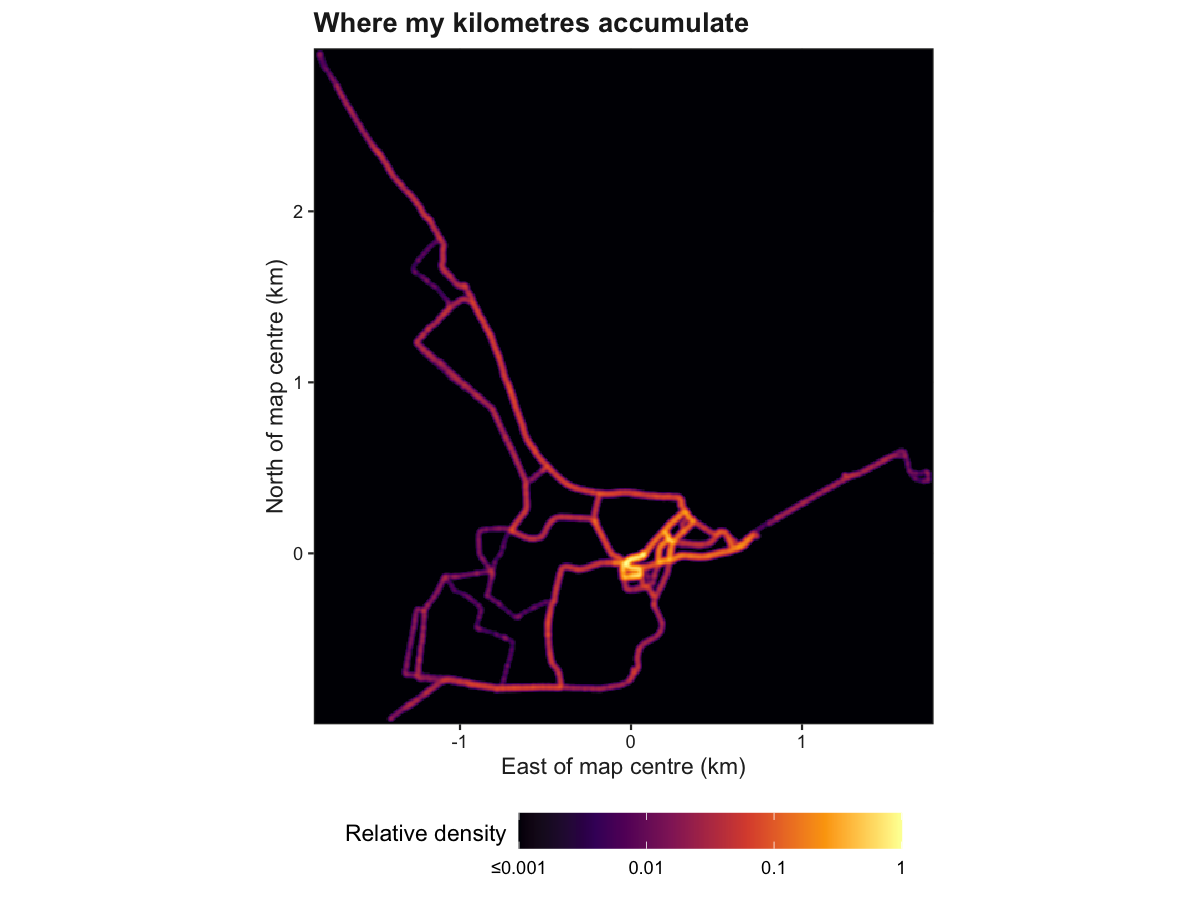
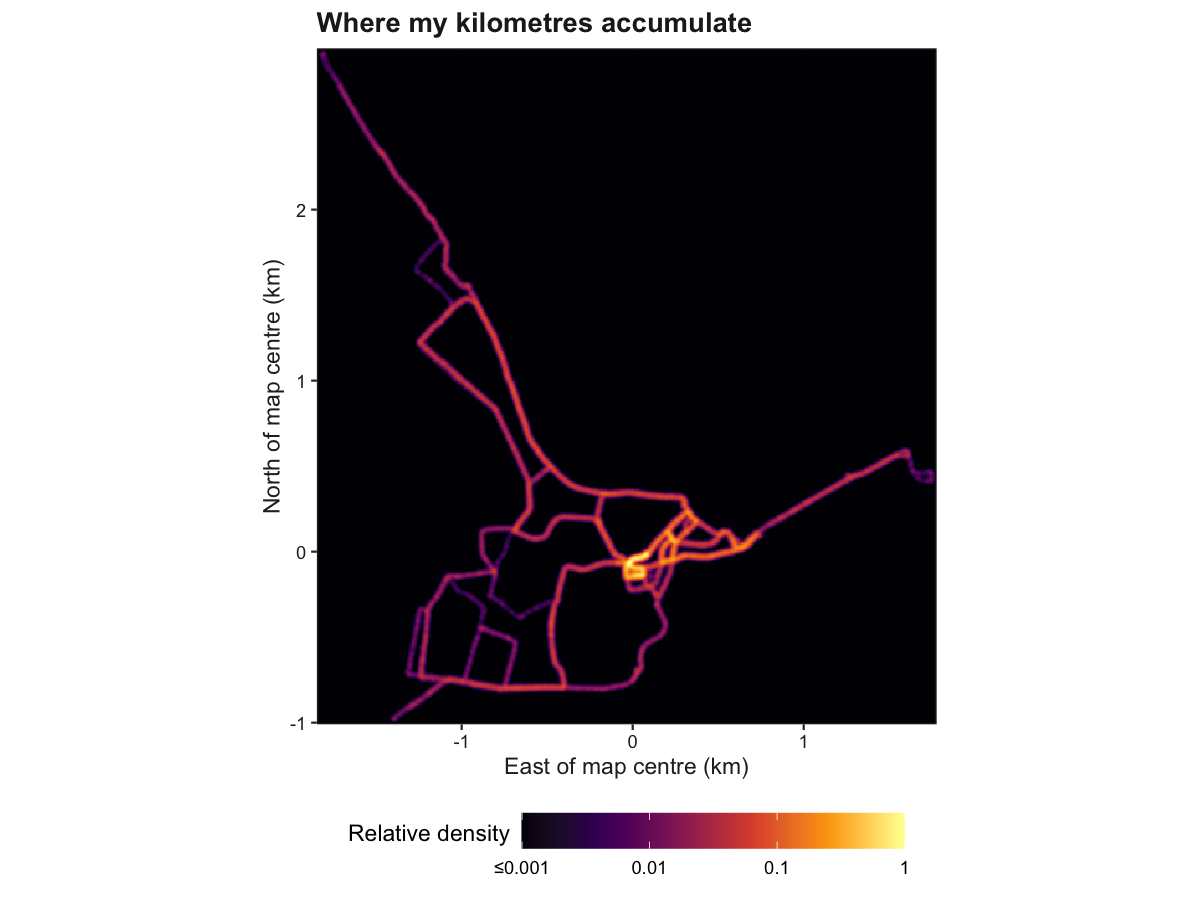
Simplify running map chapter

diff --git a/_posts/0001-01-09-running-mapping-playground.md b/_posts/0001-01-09-running-mapping-playground.md
@@ -33,11 +33,12 @@ go through the training itself to see the results.
 So what do I do in the meantime? My all-time favourite procrastination
 exercise: mapping data. Not the first I’m going down this road.
 
-I really love making maps. A few choices about colour, scale, and what
-to count can make the same routes tell quite different stories.
+I really love making maps. Finding the right colour palette, the right
+scale and location for labels, or the right data to map your idea.
 
-Here are the three views we will make: a density plot of GPS positions,
-towers of repeat visits, and a run placed in its landscape.
+Here are the three views I did for these running data: a density plot of
+GPS positions, towers of repeat visits, and a run placed in its
+landscape using satellite date.
 
 <figure aria-label="Three views of my running routes">
 
@@ -71,20 +72,27 @@ follow below.
 
 </figure>
 
+The code examples are, unfortunately, on the long side but good visuals
+deserve that much. I never knew how to accept pre-made figure templates.
+I always have to fine tune everything by hand. So be it.
+
 # Getting the coordinates
 
 To make maps, one needs spatial data. The coordinates live in
 `activity_records`, inside `garmin_activities.db`. We keep running
-activities from **29 June 2026** onwards. Warm-ups and cool-downs belong
-here too: they are places I ran.
+activities from **29 June 2026** onwards. Warm-ups and cool-downs are
+included in this chapter: they are places I ran.
 
-One run comes from a trip to South Africa to give an R workshop. A map
-covering both countries would shrink the routes to dots, so that run
-will get its own map at the end.
+One of the runs of this period comes from a trip to South Africa to give
+an R workshop. A map covering South Africa and Germany would shrink the
+routes to dots, so that run will get its own map at the end.
 
-`position_long` and `position_lat` locate each point in decimal degrees.
-`activity_id` tells us which run it belongs to; `record` and `timestamp`
-let us follow the points in order.
+Here are the data we’ll use:
+
+- `position_long` and `position_lat` locate each point in decimal
+  degrees.
+- `activity_id` tells us which run it belongs to, and `record` gives the
+  order of points within each run.
 
 ``` r
 setwd(
@@ -118,7 +126,7 @@ running_activities <- tbl(con, "activities") |>
 gps <- tbl(con, "activity_records") |>
     semi_join(running_activities, by = "activity_id") |>
     select(
-        activity_id, record, timestamp,
+        activity_id, record,
         position_long, position_lat
     ) |>
     collect()
@@ -126,39 +134,28 @@ gps <- tbl(con, "activity_records") |>
 dbDisconnect(con)
 ```
 
-> As opposed to previous chapters, I immediately disconnect from the
-> database because I already know that I won’t need to extract new data
-> after this point. I disconnect now, so I’m certain I won’t forgt
-> later.
+After `collect()` brings the selected records into R, I close the
+read-only database connection. The maps can now be made from the data
+already in memory.
 
-The checks below flag missing or impossible coordinates, plus the
-placeholder `(0, 0)`. We keep those rows for now: a missing position
-should break a route, rather than force connections between the points
-on either side. The two run subsets are `de_gps` for Germany and
-`sa_gps` for South Africa.
+Two records have missing coordinates at the start of an activity. I drop
+rows missing either coordinate, then split the runs into Germany
+(`de_gps`) and South Africa (`sa_gps`).
 
 ``` r
 gps <- gps |>
-    mutate(
-        timestamp = as.POSIXct(timestamp, tz = "UTC"),
-        valid_position =
-            is.finite(position_long) &
-            is.finite(position_lat) &
-            between(position_long, -180, 180) &
-            between(position_lat, -90, 90) &
-            !(position_long == 0 & position_lat == 0)
-    ) |>
+    tidyr::drop_na(position_long, position_lat) |>
     arrange(activity_id, record)
 
-# Split by activity, retaining the complete South Africa run for later.
+# Keep the South African run separate for its own map.
 sa_gps <- gps |> filter(activity_id == south_africa_activity_id)
 de_gps <- gps |> filter(activity_id != south_africa_activity_id)
 ```
 
 # Choosing the neighbourhood
 
-The main maps cover my routes around Greifswald, Germany, well within
-ten kilometres of the median recorded position.
+The main maps cover my routes around Greifswald, Germany. I use the
+median recorded position as the map centre.
 
 Longitude and latitude need to be converted into distances and projected
 onto 30-metre squares. A local **map projection** converts those angles
@@ -173,10 +170,9 @@ applying `floor()` then assigns each point to a grid square.
 
 ``` r
 map_centre <- c(
-    lon = median(de_gps$position_long[de_gps$valid_position]),
-    lat = median(de_gps$position_lat[de_gps$valid_position])
+    lon = median(de_gps$position_long),
+    lat = median(de_gps$position_lat)
 )
-map_radius_m <- 10000
 cell_size_m <- 30
 bandwidth_m <- 10
 
@@ -185,23 +181,19 @@ local_crs <- sprintf(
     map_centre[["lon"]], map_centre[["lat"]]
 )
 xy <- de_gps |>
-    filter(valid_position) |>
     st_as_sf(coords = c("position_long", "position_lat"), crs = 4326) |>
     st_transform(local_crs) |>
     st_coordinates()
 
-# Keep invalid and out-of-area records as breaks in the visit sequence.
-de_gps$x_m <- de_gps$y_m <- NA_real_
-de_gps$x_m[de_gps$valid_position] <- xy[, "X"]
-de_gps$y_m[de_gps$valid_position] <- xy[, "Y"]
+# Add the projected coordinates so we can work in metres.
 de_gps <- de_gps |>
     mutate(
-        in_map = coalesce(sqrt(x_m^2 + y_m^2) <= map_radius_m, FALSE),
-        grid_x = if_else(in_map, as.integer(floor(x_m / cell_size_m)), NA_integer_),
-        grid_y = if_else(in_map, as.integer(floor(y_m / cell_size_m)), NA_integer_)
+        x_m = xy[, "X"],
+        y_m = xy[, "Y"],
+        grid_x = as.integer(floor(x_m / cell_size_m)),
+        grid_y = as.integer(floor(y_m / cell_size_m))
     )
 map_points <- de_gps |>
-    filter(in_map) |>
     mutate(x_km = x_m / 1000, y_km = y_m / 1000)
 
 # Leave a margin around the recorded routes.
@@ -211,9 +203,7 @@ map_theme <- theme_running() +
     theme(legend.title = element_text(), panel.grid.minor = element_blank())
 ```
 
-This view contains 12647 GPS records from 19 runs. It leaves out 0 valid
-records outside the chosen area and 2 records without usable
-coordinates.
+This view contains 16206 GPS records from 24 runs.
 
 # Where I spent the most time
 
@@ -224,9 +214,11 @@ Imagine placing a small glow around each GPS point. Where many glows
 overlap, the map becomes brighter. The **bandwidth** controls how widely
 each point spreads: ten metres keeps these routes sharply defined.
 
-The inferno palette runs from dark to yellow. A logarithmic colour scale
-reveals routes I rarely used alongside the brightest spot: each legend
-step is a tenfold increase. The maximum density is scaled to one.
+The inferno palette runs from dark to bright yellow. So I choose to map
+my data density to this scheme, scaling data from 0 (black; never been
+there) to 1 (yellow; highest density). However, I first log-transformed
+the data to ensure the road I used only once or twice do net get lost in
+the background.
 
 ``` r
 density_floor <- 1e-3
@@ -271,8 +263,8 @@ of sweat lost in each location 🥵
 
 Now, I want to plot something slightly different: how many times I used
 each segment. So I want to exclude the pace element – if I walk on that
-section, I’ll spend more time there, and it will become brighter on the
-plot above.
+section, I’ll spend more time there, automatically increasing the
+brightness on the plot above.
 
 ## Counting everytime I entered a location
 
@@ -281,29 +273,21 @@ resting in one place.
 
 I divide the whole area into 30-by-30-metre squares and count entries.
 The sequence A, A, B, B, A gives two visits to cell A and one to B.
-Staying inside a cell does not keep adding visits, and every new
-activity starts its own sequence.
+Staying inside a cell (A -\> A) does not keep adding visits, and every
+new activity starts its own sequence.
 
-A missing position, a trip outside the map, or a recording gap longer
-than 60 seconds also starts a new observed visit. Since we cannot
-reconstruct an unrecorded path: cells crossed between GPS samples are
-not filled in. This can happen when I stop my watch in one location and
-restart at a different place.
+The largest entry counts cluster near the origin, around that hill. This
+time, the numbers describe how many times I returned to those squares,
+rather than how many GPS points accumulated there.
 
 ``` r
-max_gap_seconds <- 60
-
 visits <-
     de_gps |>
         group_by(activity_id) |>
         arrange(record, .by_group = TRUE) |>
         mutate(
-            gap_seconds = as.numeric(difftime(timestamp, lag(timestamp), units = "secs")),
-            new_visit = in_map & (
-                row_number() == 1L |
-                coalesce(grid_x != lag(grid_x) | grid_y != lag(grid_y), TRUE) |
-                is.na(gap_seconds) | gap_seconds > max_gap_seconds | gap_seconds < 0
-            )
+            new_visit = row_number() == 1L |
+                grid_x != lag(grid_x) | grid_y != lag(grid_y)
         ) |>
         ungroup() |>
         filter(new_visit)
@@ -314,30 +298,26 @@ cell_counts <- visits |>
 cell_counts |> arrange(desc(entries))
 ```
 
-    ## # A tibble: 822 × 3
+    ## # A tibble: 848 × 3
     ##    grid_x grid_y entries
     ##     <int>  <int>   <int>
-    ##  1     -1     -2      89
-    ##  2      1     -1      85
-    ##  3      0     -2      66
-    ##  4      0     -1      60
-    ##  5      2     -1      57
-    ##  6     -2     -3      56
-    ##  7      0     -3      55
-    ##  8     -1     -3      54
-    ##  9     -2     -2      50
-    ## 10      1     -4      47
-    ## # ℹ 812 more rows
+    ##  1     -1     -3     121
+    ##  2      0     -2     116
+    ##  3      1     -2     113
+    ##  4     -1     -2     112
+    ##  5     -2     -3      74
+    ##  6      0     -4      73
+    ##  7      1     -4      71
+    ##  8      2     -1      71
+    ##  9     -2     -4      60
+    ## 10      1     -5      52
+    ## # ℹ 838 more rows
 
-The largest entry counts cluster near the origin, around the hill. This
-time, the numbers describe returns to those squares, rather than how
-many GPS points accumulated there. Choosing the median position as the
-centre does not guarantee that the busiest cells will be nearby.
-
-The beginning and end of a “hill loop” are the same, and based on the
-algorithms, these will corresond to two entries. So I’d estimate that I
-must have ran up that hill about 40 times since the beginning of that
-program across 4-5 sessions.
+My most visited segment tallies ~120 visits. This corresponds to the
+beginning and end of the “hill loop” I keep doing over and over. So Each
+loop brings two entries. So I can roughly estimate that I have ran up
+that hill about ~60 times since the beginning of that program across 5-6
+sessions.
 
 ## Gridding the data
 
@@ -420,15 +400,15 @@ the center hosting the highest density and then decreasing along the
 main roads.
 
 PS: I can’t explore in too many directions because I live on a
-peninsula. Lots of Baltic Sea around me.
+peninsula. Lots of Baltic Sea in the top right triangle.
 
 # A detour to South Africa
 
 One of the runs was done in South Africa and does not really belong to
 his program. It was a chance to shake off some of the travelling aches
-that one gets staying 11+ hours on a plane. I would have liked to repeat
-the bush run experience a few more times, but reports of fresh leopard
-prints on the roads we had used cooled our enthusiasm.
+that one gets staying 11+ hours on a plane. And while I would have liked
+to repeat such a bush run experience a few more times, daily reports of
+fresh leopard prints on the roads we had used cooled our enthusiasm.
 
 So the experience was not repeated 😅
 
@@ -447,7 +427,7 @@ install.packages(c("maptiles", "terra", "rnaturalearth", "rnaturalearthdata"))
 
 All layers need the same coordinate system to line up. These tiles use
 **Web Mercator (EPSG:3857)**, so the GPS points and country outline are
-transformed to match. Gaps still break the route into separate lines.
+transformed to match.
 
 A **bounding box** gives the left, right, bottom, and top limits of a
 map. The overview covers South Africa. For the close-up, the route’s
@@ -457,14 +437,6 @@ bounding box becomes a square with a little space around it.
 sa_route <-
     sa_gps |>
         arrange(record) |>
-        mutate(
-            gap_seconds = as.numeric(difftime(timestamp, lag(timestamp), units = "secs")),
-            segment = cumsum(
-                !valid_position | !lag(valid_position, default = FALSE) |
-                is.na(gap_seconds) | gap_seconds > max_gap_seconds | gap_seconds < 0
-            )
-        ) |>
-        filter(valid_position) |>
         st_as_sf(coords = c("position_long", "position_lat"), crs = 4326) |>
         st_transform(3857)
 
@@ -550,12 +522,8 @@ text(run_centre[["x"]], run_centre[["y"]], labels = "Kruger",
 mtext("A. South Africa", cex=2, side = 3, line = 0.5, font = 2)
 
 terra::plotRGB(closeup_tiles, axes = FALSE, mar = c(0, 0, 2, 0))
-for (rows in split(seq_len(nrow(sa_xy)), sa_route$segment)) {
-    if (length(rows) >= 2) {
-        lines(sa_xy[rows, , drop = FALSE], col = "#202020", lwd = 4)
-        lines(sa_xy[rows, , drop = FALSE], col = "#FFCC33", lwd = 2)
-    }
-}
+lines(sa_xy, col = "#202020", lwd = 4)
+lines(sa_xy, col = "#FFCC33", lwd = 2)
 points(sa_xy[c(1, nrow(sa_xy)), , drop = FALSE],
        pch = c(21, 24), bg = "white", col = "#202020", cex = 1.3)
 mtext("B. Kruger run · August 2026", cex=2, side = 3, line = 0.5, font = 2)
